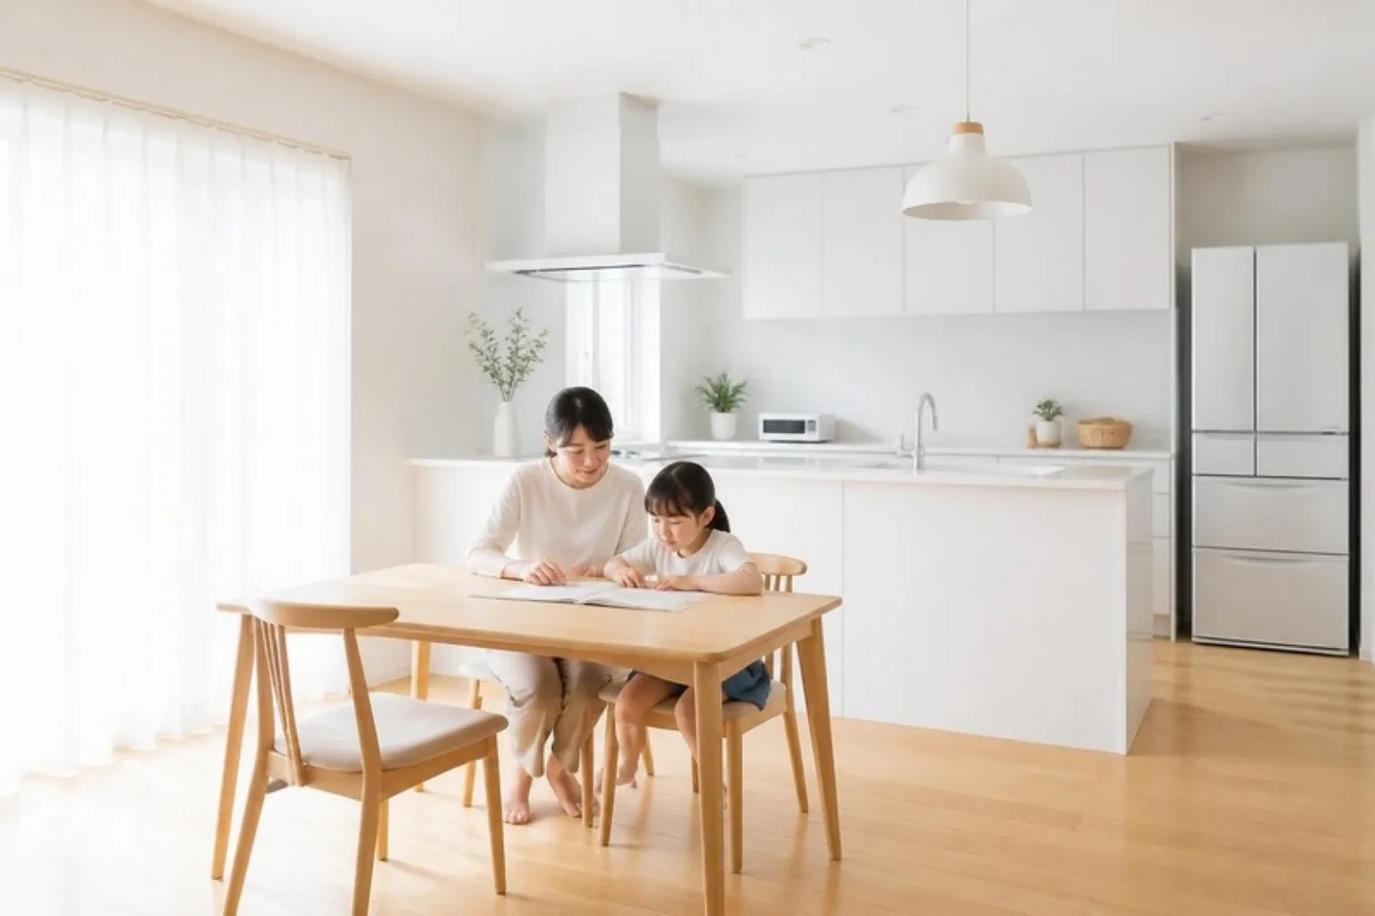
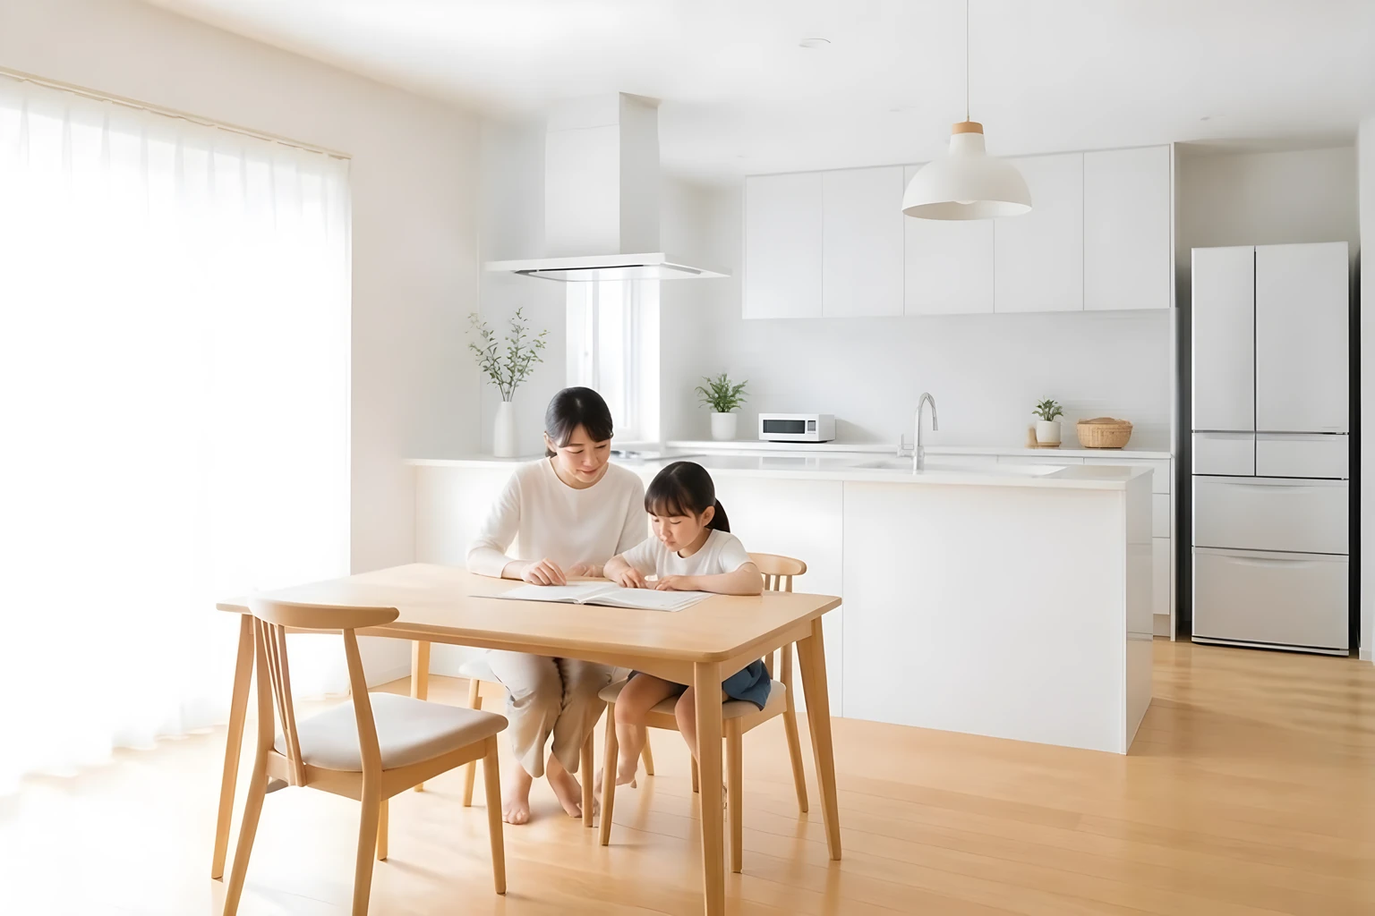
site: 写真 6 枚の画質を上げる(AI で 4 倍に描き直し、Retina 用の 2 倍の版を足す)
- 家族・台所・家・大工の手・見積書・帰宅の 6 枚を Real-ESRGAN x4plus で 4 倍に描き直し、2 倍の大きさで書き出した(webp 品質 90、jpg 品質 88)
- 今までの名前の版(800 と元の幅)は同じ名前のまま中身を入れ替え、Retina 用に 2 倍の幅の版(family-3360 など 6 本)を足した
- 9 ページの <picture> の srcset に 2 倍の版を 1 つ足しただけ。本文・リンク・構造化データ・head は元と同じ
- read.css: FAQ とブログの頭の写真(見積書と台所)にも 2 倍の版を足した(image-set の 2x)

Claude-Session: https://claude.ai/code/session_011X43iCQU6r45coqxDTbR9p

diff --git a/about-founder.html b/about-founder.html
@@ -103,7 +103,7 @@
         これは詐欺じゃない。業界の「普通」だ。だから誰も声を上げなかった。<br/><br/>
         俺がAIを作った理由はシンプルだ。棟梁に怒鳴られたあの日の言葉、「誤魔化すな」を業界全体に突きつけたかった。</p></div></div>
 </div>
-<picture><source type="image/webp" srcset="/assets/house/carpenter-800.webp 800w, /assets/house/carpenter-1456.webp 1456w" sizes="(max-width:760px) 100vw, 720px"><img class="im" src="/assets/house/carpenter-1456.jpg" width="1456" height="1088" alt="木材に墨付けをする大工の手" style="object-position:40% 50%" loading="lazy"></picture>
+<picture><source type="image/webp" srcset="/assets/house/carpenter-800.webp 800w, /assets/house/carpenter-1456.webp 1456w, /assets/house/carpenter-2912.webp 2912w" sizes="(max-width:760px) 100vw, 720px"><img class="im" src="/assets/house/carpenter-1456.jpg" width="1456" height="1088" alt="木材に墨付けをする大工の手" style="object-position:40% 50%" loading="lazy"></picture>
 </div>
 <section class="hs-sect" aria-labelledby="career-h"><div class="hs-split"><div class="side"><p class="hs-eyebrow">キャリア</p><h2 class="hs-h2b" id="career-h">キャリア</h2></div><div class="main"><div class="hs-career"><div><span class="yr">1990年代</span><div class="bd"><h3>大工として職人の道へ</h3><p>宮大工の技術を学び、伝統的な木造建築に従事。棟梁から「誤魔化すな」という職人の矜持を叩き込まれる。手刻みの継手・仕口、伝統建築の構造美を体得。</p></div></div><div><span class="yr">海外 2.5年</span><div class="bd"><h3>海外での建設業務・市場調査</h3><p>海外の建設現場・不動産市場を直接調査。「なぜ日本の施主だけが業者に黙って払うのか」という問いを持つ。海外では施主が強く、業者との関係が対等であることを目撃。日本との構造的差異を認識。</p></div></div><div><span class="yr">2000年代</span><div class="bd"><h3>大工 × 現場監督へ</h3><p>施工管理の資格を取得し、現場監督として複数の工事現場を統括。大工の視点と管理者の視点の両方を持つことで、見積書の水増し・手抜き工事のパターンを内部から把握。</p></div></div><div><span class="yr">2010年代</span><div class="bd"><h3>大工 × 現場監督 × CM（コンストラクションマネジメント）</h3><p>施主側のCMとして、発注者の代理人となり業者との交渉を担当。500件超の見積書査定を経験。過剰請求の実態・業者が使う心理的手口・交渉で金額が下がるポイントを徹底的に把握。「建設費診断」の原型をこの時期に確立。</p></div></div><div><span class="yr">2022 現在</span><div class="bd"><h3>大工 × CM × AIエンジニア / HORIZON SHIELD創設</h3><p>The HORIZ音s株式会社を設立（2022年2月22日）。30年の建設実務経験をAIに搭載し、「施主側AI建設費診断サービス」HORIZON SHIELDを創設。ChatGPT GPTストアでの公開、Gemini Gems展開、Claude MCPサーバー展開。プレスリリースを79媒体以上に掲載。</p></div></div></div></div></div></section>
 <section class="hs-sect" aria-labelledby="research-h"><div class="hs-split"><div class="side"><p class="hs-eyebrow">研究と公開データ</p><h2 class="hs-h2b" id="research-h">研究と公開データ</h2></div><div class="main"><div class="hs-ledger"><div><span class="k">ORCID</span><div class="v"><span><a href="https://orcid.org/0009-0000-9180-903X" rel="me">0009-0000-9180-903X</a></span></div></div><div><span class="k">Web of Science</span><div class="v"><span><a href="https://www.webofscience.com/wos/author/record/QAY-0724-2026">ResearcherID QAY-0724-2026</a></span></div></div><div><span class="k">Google Scholar</span><div class="v"><span><a href="https://scholar.google.com/citations?user=VBq9MHgAAAAJ">VBq9MHgAAAAJ</a></span></div></div><div><span class="k">JCCDB</span><div class="v"><span><a href="https://github.com/ogasurfproject-jpg/japan-construction-cost-database">GitHub（正本）</a> ／ <a href="https://doi.org/10.5281/zenodo.20019572">解説論文 DOI 10.5281/zenodo.20019572</a></span><span class="note">日本建設費オープンデータベース。95,403品目(v4.0、2026-08-28)。Verified層43,090項目 + Extended層52,313項目。v2.1(2026-07-11)以降、全層 CC BY 4.0 の単一ライセンス。</span></div></div><div><span class="k">engrXiv</span><div class="v"><span><a href="https://doi.org/10.31224/7007">DOI 10.31224/7007</a> (JCCDB) / <a href="https://doi.org/10.31224/7126">DOI 10.31224/7126</a> (VRQ)</span></div></div><div><span class="k">SSRN</span><div class="v"><span><a href="https://ssrn.com/abstract=6738701">6738701</a> (JCCDB v1.2) / <a href="https://ssrn.com/abstract=6807738">6807738</a> (VRQ) / <a href="https://ssrn.com/abstract=6872819">6872819</a> (LLM Benchmark) / <a href="https://ssrn.com/abstract=6964439">6964439</a> (Buyer-side Verification)</span></div></div><div><span class="k">Zenodo（論文・データ）</span><div class="v"><span><a href="https://doi.org/10.5281/zenodo.20195706">JCCDB v1.2</a> / <a href="https://doi.org/10.5281/zenodo.20372953">VRQ</a> / <a href="https://doi.org/10.5281/zenodo.20370618">非標準工事拡張</a> / <a href="https://doi.org/10.5281/zenodo.20522847">LLMベンチ replication</a> / <a href="https://doi.org/10.5281/zenodo.20175219">PTKA宣言</a></span><span class="note">査読前論文・データ・ソフトウェア。全てCC BY 4.0、第三者機関で検証可能。</span></div></div><div><span class="k">Bitcoin / PTKA</span><div class="v"><span>Block #949356</span><span class="note">取引前知識刻印(PTKA)宣言。適正価格の算出根拠をブロックチェーンに刻印し、後から書き換えられない形で公開する思想。</span></div></div></div><p class="hs-fine" style="padding-top:20px">数字には根拠を。これが本サイトの全コンテンツに適用される唯一のルールです。上記の研究者ID・DOIはすべて第三者機関で検証できます。</p></div></div></section>

diff --git a/index.html b/index.html
@@ -101,7 +101,7 @@
 </header>
 <main id="main">
 <section class="h-hero" aria-labelledby="hero-title">
-<picture><source type="image/webp" srcset="/assets/house/family-800.webp 800w, /assets/house/family-1680.webp 1680w" sizes="100vw"><img class="h-hero-img" src="/assets/house/family-1680.jpg" width="1680" height="944" alt="白い部屋で積み木をして遊ぶ家族" style="object-position:62% 50%" fetchpriority="high"></picture>
+<picture><source type="image/webp" srcset="/assets/house/family-800.webp 800w, /assets/house/family-1680.webp 1680w, /assets/house/family-3360.webp 3360w" sizes="100vw"><img class="h-hero-img" src="/assets/house/family-1680.jpg" width="1680" height="944" alt="白い部屋で積み木をして遊ぶ家族" style="object-position:62% 50%" fetchpriority="high"></picture>
 <div class="h-hero-in">
 <p class="h-eye">家族の住まいのための、適正価格の検証</p>
 <h1 class="h-title" id="hero-title">家族の住まいに、<br>正しい値段を。</h1>
@@ -119,7 +119,7 @@
 </div>
 </section>
 <section class="h-price" id="price" aria-labelledby="price-h">
-<picture><source type="image/webp" srcset="/assets/house/house-800.webp 800w, /assets/house/house-1136.webp 1136w" sizes="(max-width:900px) 100vw, 45vw"><img class="h-price-img" src="/assets/house/house-1136.jpg" width="1136" height="1408" alt="白い外壁の二階建ての家" style="object-position:50% 50%" loading="lazy" decoding="async"></picture>
+<picture><source type="image/webp" srcset="/assets/house/house-800.webp 800w, /assets/house/house-1136.webp 1136w, /assets/house/house-2272.webp 2272w" sizes="(max-width:900px) 100vw, 45vw"><img class="h-price-img" src="/assets/house/house-1136.jpg" width="1136" height="1408" alt="白い外壁の二階建ての家" style="object-position:50% 50%" loading="lazy" decoding="async"></picture>
 <div class="h-price-tx"><p class="h-ey">相場の目安</p><h2 class="h-h2" id="price-h">よくある工事の、<br>目安の値段。</h2>
 <div class="h-rows">
 <div class="h-row"><span class="k">外壁塗装(シリコン)<small>30坪</small></span><span class="v">70〜115<small>万円</small></span></div>
@@ -131,7 +131,7 @@
 </div>
 </section>
 <section class="h-how" id="how" aria-labelledby="how-h">
-<div class="h-band"><picture><source type="image/webp" srcset="/assets/house/kitchen-800.webp 800w, /assets/house/kitchen-1536.webp 1536w" sizes="100vw"><img class="h-band-img" src="/assets/house/kitchen-1536.jpg" width="1536" height="1024" alt="白いキッチンで書類を読む母と娘" style="object-position:50% 60%" loading="lazy" decoding="async"></picture><div class="h-band-tx"><p class="h-ey ink">使い方</p><h2 class="h-h2" id="how-h">見積もりを、<br>家族で読める言葉に。</h2></div></div>
+<div class="h-band"><picture><source type="image/webp" srcset="/assets/house/kitchen-800.webp 800w, /assets/house/kitchen-1536.webp 1536w, /assets/house/kitchen-3072.webp 3072w" sizes="100vw"><img class="h-band-img" src="/assets/house/kitchen-1536.jpg" width="1536" height="1024" alt="白いキッチンで書類を読む母と娘" style="object-position:50% 60%" loading="lazy" decoding="async"></picture><div class="h-band-tx"><p class="h-ey ink">使い方</p><h2 class="h-h2" id="how-h">見積もりを、<br>家族で読める言葉に。</h2></div></div>
 <div class="h-3 h-steps">
 <div class="h-step"><p class="n">01</p><h3>見積もりを送る</h3><p>お手元の見積書を、写真かPDFで送ります。工事の前でも、契約の前でも構いません。</p></div>
 <div class="h-step"><p class="n">02</p><h3>項目ごとに照らし合わせる</h3><p>一つひとつの項目を、JCCDBの品目と相場、地域の係数で確かめます。「一式」の中身も分けて見ます。</p></div>
@@ -143,7 +143,7 @@
 <p>施工業者から、紹介手数料や送客の報酬を受け取りません。だから、施主の側に立って、値段だけを見ることができます。</p>
 <p>つくったのは、15歳から大工として現場に立ってきた人間です。現場の値段を知っているから、見積もりのどこに無理があるかが分かります。</p>
 <a class="h-link" href="/about-founder.html">代表者プロフィールを詳しく見る →</a></div>
-<picture><source type="image/webp" srcset="/assets/house/carpenter-800.webp 800w, /assets/house/carpenter-1456.webp 1456w" sizes="(max-width:900px) 100vw, 50vw"><img class="h-promise-img" src="/assets/house/carpenter-1456.jpg" width="1456" height="1088" alt="木材に墨付けをする大工の手" style="object-position:50% 50%" loading="lazy" decoding="async"></picture>
+<picture><source type="image/webp" srcset="/assets/house/carpenter-800.webp 800w, /assets/house/carpenter-1456.webp 1456w, /assets/house/carpenter-2912.webp 2912w" sizes="(max-width:900px) 100vw, 50vw"><img class="h-promise-img" src="/assets/house/carpenter-1456.jpg" width="1456" height="1088" alt="木材に墨付けをする大工の手" style="object-position:50% 50%" loading="lazy" decoding="async"></picture>
 </section>
 <section class="h-sec h-plan" id="services" aria-labelledby="plan-h">
 <span id="diagnosis"></span><span id="kira"></span><p class="h-ey">料金</p><h2 class="h-h2" id="plan-h">まず無料で聞く。必要なら、診断書を。</h2>

diff --git a/assets/house/read.css b/assets/house/read.css
@@ -34,7 +34,7 @@ main > h1{margin:0 0 20px;font-family:var(--serif);font-weight:800;font-size:44p
 /* the photograph under the page head (decorative, set in CSS) */
 main > .updated::after{content:"写真はイメージです";content:"写真はイメージです" / "";box-sizing:border-box;display:flex;align-items:flex-end;justify-content:flex-end;width:min(1248px,calc(100vw - 40px));margin:56px 0 72px calc(50% - min(624px,calc(50vw - 20px)));height:446px;font-size:11px;line-height:1;letter-spacing:.08em;color:var(--g6);
   background:linear-gradient(#fff,#fff) 0 100%/100% 26px no-repeat,url(/assets/house/papers-1536.jpg) 50% 55%/cover no-repeat;
-  background:linear-gradient(#fff,#fff) 0 100%/100% 26px no-repeat,image-set(url(/assets/house/papers-1536.webp) type("image/webp"),url(/assets/house/papers-1536.jpg) type("image/jpeg")) 50% 55%/cover no-repeat}
+  background:linear-gradient(#fff,#fff) 0 100%/100% 26px no-repeat,image-set(url(/assets/house/papers-1536.webp) type("image/webp") 1x,url(/assets/house/papers-3072.webp) type("image/webp") 2x,url(/assets/house/papers-1536.jpg) type("image/jpeg") 1x) 50% 55%/cover no-repeat}
 .lead{font-size:17px;line-height:2;color:var(--g2)}
 main h2{margin:72px 0 20px;padding-top:28px;border-top:1px solid var(--ink);font-family:var(--serif);font-size:26px;font-weight:700;line-height:1.55;letter-spacing:.05em;border-bottom:0}
 main h3{margin:28px 0 8px;font-size:17px;font-weight:700;line-height:1.7}
@@ -119,7 +119,7 @@ footer.site p{margin:0 0 6px;color:var(--g5);font-size:12px;line-height:1.9}
 .container > .date + h1{margin-top:16px}
 .container > h1 + .date::after,.container > .date + h1::after{content:"写真はイメージです";content:"写真はイメージです" / "";box-sizing:border-box;display:flex;align-items:flex-end;justify-content:flex-end;width:min(1248px,calc(100vw - 40px));margin:48px 0 64px calc(50% - min(624px,calc(50vw - 20px)));height:420px;font-size:11px;line-height:1;letter-spacing:.08em;color:var(--g6);
   background:linear-gradient(#fff,#fff) 0 100%/100% 26px no-repeat,url(/assets/house/kitchen-1536.jpg) 50% 45%/cover no-repeat;
-  background:linear-gradient(#fff,#fff) 0 100%/100% 26px no-repeat,image-set(url(/assets/house/kitchen-1536.webp) type("image/webp"),url(/assets/house/kitchen-1536.jpg) type("image/jpeg")) 50% 45%/cover no-repeat}
+  background:linear-gradient(#fff,#fff) 0 100%/100% 26px no-repeat,image-set(url(/assets/house/kitchen-1536.webp) type("image/webp") 1x,url(/assets/house/kitchen-3072.webp) type("image/webp") 2x,url(/assets/house/kitchen-1536.jpg) type("image/jpeg") 1x) 50% 45%/cover no-repeat}
 .container > .date + h1::after{font-family:var(--sans);font-weight:500;margin-bottom:56px}
 .container > .subtitle{font-size:16px;color:var(--g2);margin:0 0 48px}
 .container > .lead{margin:0 0 48px;padding:28px 0 0;border:0;border-top:2px solid var(--ink);border-radius:0;background:none;font-size:18px;line-height:2;color:var(--ink)}
@@ -164,7 +164,7 @@ body > div[style*="max-width:860px"] a{color:var(--g3) !important;border-bottom:
 .container > ul li span{font-size:13px !important;color:var(--g5) !important}
 .container > h1 + .subtitle::after{content:"写真はイメージです";content:"写真はイメージです" / "";box-sizing:border-box;display:flex;align-items:flex-end;justify-content:flex-end;width:min(1248px,calc(100vw - 40px));margin:48px 0 0 calc(50% - min(624px,calc(50vw - 20px)));height:420px;font-size:11px;line-height:1;letter-spacing:.08em;color:var(--g6);
   background:linear-gradient(#fff,#fff) 0 100%/100% 26px no-repeat,url(/assets/house/kitchen-1536.jpg) 50% 45%/cover no-repeat;
-  background:linear-gradient(#fff,#fff) 0 100%/100% 26px no-repeat,image-set(url(/assets/house/kitchen-1536.webp) type("image/webp"),url(/assets/house/kitchen-1536.jpg) type("image/jpeg")) 50% 45%/cover no-repeat}
+  background:linear-gradient(#fff,#fff) 0 100%/100% 26px no-repeat,image-set(url(/assets/house/kitchen-1536.webp) type("image/webp") 1x,url(/assets/house/kitchen-3072.webp) type("image/webp") 2x,url(/assets/house/kitchen-1536.jpg) type("image/jpeg") 1x) 50% 45%/cover no-repeat}
 @media (max-width:760px){
   .container > a.back{height:64px}
   .container > h1{font-size:27px;margin-top:32px}

diff --git a/tokusho/index.html b/tokusho/index.html
@@ -42,7 +42,7 @@
 <h1 class="hs-title">特定商取引法に<br>基づく表記</h1>
 <p class="hs-lead">誰が、何を、いくらで、どう提供するのか。取り下げたものや改めたものも、隠さずに残しています。</p>
 </div>
-<picture><source type="image/webp" srcset="/assets/house/papers-800.webp 800w, /assets/house/papers-1536.webp 1536w" sizes="(max-width:760px) 100vw, 720px"><img class="hs-head-img" src="/assets/house/papers-1536.jpg" width="1536" height="1024" alt="木のテーブルに置かれた見積書と電卓と眼鏡" style="object-position:50% 55%" fetchpriority="high"></picture>
+<picture><source type="image/webp" srcset="/assets/house/papers-800.webp 800w, /assets/house/papers-1536.webp 1536w, /assets/house/papers-3072.webp 3072w" sizes="(max-width:760px) 100vw, 720px"><img class="hs-head-img" src="/assets/house/papers-1536.jpg" width="1536" height="1024" alt="木のテーブルに置かれた見積書と電卓と眼鏡" style="object-position:50% 55%" fetchpriority="high"></picture>
 </div>
 <div class="hs-doc">
 <nav class="hs-toc" aria-label="目次"><p>目次</p><a href="#t1">01　事業者</a><a href="#t2">02　販売価格</a><a href="#t3">03　お支払い方法</a><a href="#t4">04　支払い時期</a><a href="#t5">05　サービス提供時期</a><a href="#t6">06　サービス内容</a><a href="#t7">07　前払式チケット</a><a href="#t8">08　動作環境、準拠法・管轄</a><a href="#t9">09　この表記について</a><a href="#t10">10　キャンセル・返金</a><a href="#t11">11　個人情報の取り扱い</a><a href="#t12">12　免責事項</a></nav>

diff --git a/privacy.html b/privacy.html
@@ -42,7 +42,7 @@
 <h1 class="hs-title">プライバシー<br>ポリシー</h1>
 <p class="hs-lead">お預かりする見積書は、ご家族の暮らしそのものです。何を受け取り、何に使い、どう守るかをここに記します。</p>
 </div>
-<picture><source type="image/webp" srcset="/assets/house/homecoming-800.webp 800w, /assets/house/homecoming-1136.webp 1136w" sizes="(max-width:760px) 100vw, 720px"><img class="hs-head-img" src="/assets/house/homecoming-1136.jpg" width="1136" height="1408" alt="父と子が手をつないで白い家に帰る後ろ姿" style="object-position:50% 45%" fetchpriority="high"></picture>
+<picture><source type="image/webp" srcset="/assets/house/homecoming-800.webp 800w, /assets/house/homecoming-1136.webp 1136w, /assets/house/homecoming-2272.webp 2272w" sizes="(max-width:760px) 100vw, 720px"><img class="hs-head-img" src="/assets/house/homecoming-1136.jpg" width="1136" height="1408" alt="父と子が手をつないで白い家に帰る後ろ姿" style="object-position:50% 45%" fetchpriority="high"></picture>
 </div>
 <div class="hs-doc">
 <nav class="hs-toc" aria-label="目次"><p>目次</p><a href="#p1">01　取得する情報</a><a href="#p2">02　利用目的</a><a href="#p3">03　第三者提供</a><a href="#p4">04　個人情報の管理</a><a href="#p5">05　Cookieの使用</a><a href="#p6">06　お問い合わせ</a></nav>

diff --git a/tos.html b/tos.html
@@ -42,7 +42,7 @@
 <h1 class="hs-title">利用規約</h1>
 <p class="hs-lead">私たちは工事を請け負わず、仲介もしません。値段を確かめることだけに徹する、その約束ごとです。</p>
 </div>
-<picture><source type="image/webp" srcset="/assets/house/house-800.webp 800w, /assets/house/house-1136.webp 1136w" sizes="(max-width:760px) 100vw, 720px"><img class="hs-head-img" src="/assets/house/house-1136.jpg" width="1136" height="1408" alt="白い外壁の二階建ての家" style="object-position:50% 40%" fetchpriority="high"></picture>
+<picture><source type="image/webp" srcset="/assets/house/house-800.webp 800w, /assets/house/house-1136.webp 1136w, /assets/house/house-2272.webp 2272w" sizes="(max-width:760px) 100vw, 720px"><img class="hs-head-img" src="/assets/house/house-1136.jpg" width="1136" height="1408" alt="白い外壁の二階建ての家" style="object-position:50% 40%" fetchpriority="high"></picture>
 </div>
 <div class="hs-doc">
 <nav class="hs-toc" aria-label="目次"><p>目次</p><a href="#s1">01　サービスの内容</a><a href="#s2">02　禁止事項</a><a href="#s3">03　キャンセル・返金ポリシー</a><a href="#s4">04　前払式チケット（受領課金）</a><a href="#s5">05　免責事項</a><a href="#s6">06　準拠法・管轄裁判所</a><a href="#s7">07　運営者</a></nav>

diff --git a/shindan.html b/shindan.html
@@ -44,7 +44,7 @@
 <h1 class="hs-title">あなたの見積書<br>適正ですか？</h1>
 <p class="hs-lead">工事種別・金額・地域を入力するだけで、建設業界30年のプロが見積書の妥当性を診断します。</p>
 </div>
-<picture><source type="image/webp" srcset="/assets/house/kitchen-800.webp 800w, /assets/house/kitchen-1536.webp 1536w" sizes="(max-width:760px) 100vw, 720px"><img class="hs-head-img" src="/assets/house/kitchen-1536.jpg" width="1536" height="1024" alt="白いキッチンで書類を読む母と娘" style="object-position:42% 55%" fetchpriority="high"></picture>
+<picture><source type="image/webp" srcset="/assets/house/kitchen-800.webp 800w, /assets/house/kitchen-1536.webp 1536w, /assets/house/kitchen-3072.webp 3072w" sizes="(max-width:760px) 100vw, 720px"><img class="hs-head-img" src="/assets/house/kitchen-1536.jpg" width="1536" height="1024" alt="白いキッチンで書類を読む母と娘" style="object-position:42% 55%" fetchpriority="high"></picture>
 </div>
 <div class="hs-stats">
 <div><p class="n">0<small>円</small></p><p class="l">費用はかかりません</p></div>

diff --git a/thankyou.html b/thankyou.html
@@ -60,7 +60,7 @@
 <a class="hs-link" style="display:inline-flex;align-items:center;min-height:44px;font-weight:700" href="https://shield.the-horizons-innovation.com">← HORIZON SHIELD トップへ</a>
 </div>
 </div>
-<picture><source type="image/webp" srcset="/assets/house/homecoming-800.webp 800w, /assets/house/homecoming-1136.webp 1136w" sizes="(max-width:760px) 100vw, 720px"><img class="hs-flow-img" src="/assets/house/homecoming-1136.jpg" width="1136" height="1408" alt="父と子が手をつないで白い家に帰る後ろ姿" style="object-position:50% 45%" loading="lazy"></picture>
+<picture><source type="image/webp" srcset="/assets/house/homecoming-800.webp 800w, /assets/house/homecoming-1136.webp 1136w, /assets/house/homecoming-2272.webp 2272w" sizes="(max-width:760px) 100vw, 720px"><img class="hs-flow-img" src="/assets/house/homecoming-1136.jpg" width="1136" height="1408" alt="父と子が手をつないで白い家に帰る後ろ姿" style="object-position:50% 45%" loading="lazy"></picture>
 </div>
 </main>
 <footer class="hs-foot-slim"><div class="in">

diff --git a/bank-transfer.html b/bank-transfer.html
@@ -69,7 +69,7 @@
 <a class="hs-btn ghost" style="align-self:flex-start;height:56px;padding:0 32px" href="https://line.me/R/ti/p/@172piime">LINEで連絡する（@172piime）</a>
 </div>
 </div>
-<picture><source type="image/webp" srcset="/assets/house/papers-800.webp 800w, /assets/house/papers-1536.webp 1536w" sizes="(max-width:760px) 100vw, 720px"><img class="hs-flow-img" src="/assets/house/papers-1536.jpg" width="1536" height="1024" alt="木のテーブルに置かれた見積書と電卓と眼鏡" style="object-position:30% 60%" loading="lazy"></picture>
+<picture><source type="image/webp" srcset="/assets/house/papers-800.webp 800w, /assets/house/papers-1536.webp 1536w, /assets/house/papers-3072.webp 3072w" sizes="(max-width:760px) 100vw, 720px"><img class="hs-flow-img" src="/assets/house/papers-1536.jpg" width="1536" height="1024" alt="木のテーブルに置かれた見積書と電卓と眼鏡" style="object-position:30% 60%" loading="lazy"></picture>
 </div>
 </main>
 <footer class="hs-foot-slim"><div class="in">

diff --git a/check/index.html b/check/index.html
@@ -37,7 +37,7 @@
 </header>
 <main id="main">
 <div class="hs-headL">
-<picture><source type="image/webp" srcset="/assets/house/homecoming-800.webp 800w, /assets/house/homecoming-1136.webp 1136w" sizes="(max-width:760px) 100vw, 720px"><img class="ph" src="/assets/house/homecoming-1136.jpg" width="1136" height="1408" alt="父と子が手をつないで白い家に帰る後ろ姿" style="object-position:50% 45%" fetchpriority="high"></picture>
+<picture><source type="image/webp" srcset="/assets/house/homecoming-800.webp 800w, /assets/house/homecoming-1136.webp 1136w, /assets/house/homecoming-2272.webp 2272w" sizes="(max-width:760px) 100vw, 720px"><img class="ph" src="/assets/house/homecoming-1136.jpg" width="1136" height="1408" alt="父と子が手をつないで白い家に帰る後ろ姿" style="object-position:50% 45%" fetchpriority="high"></picture>
 <div class="tx">
 <p class="hs-crumb"><a href="/">HORIZON SHIELD</a> / 業者チェッカー</p>
 <p class="hs-eyebrow">AI POWERED // 無料診断</p>
